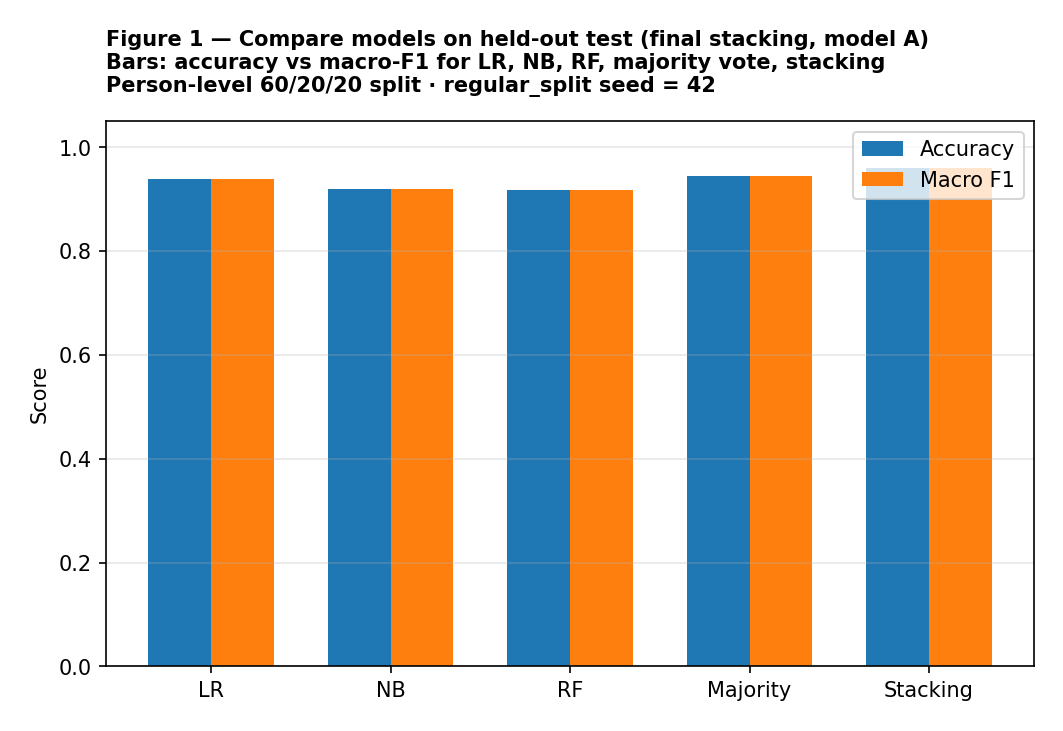
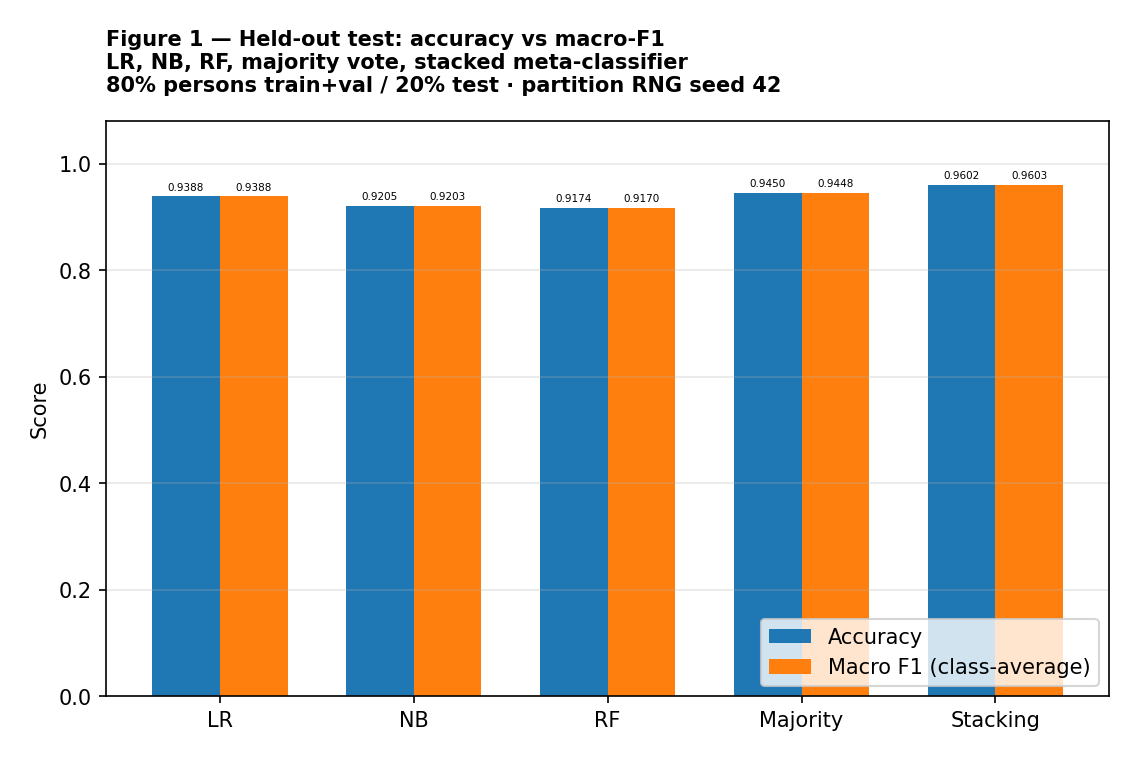
plots: neutral report wording, 80/20 framing, bar value labels, rename fig4 file
- Fig 1: annotate accuracy vs macro-F1 on bars (often nearly equal visually)
- Titles: drop internal A/B/C/final labels; use seed N not regular_split
- Person-level split kept with unique_id gloss; Fig 4 axis/renamed PNG

Made-with: Cursor

diff --git a/report_figures.py b/report_figures.py
@@ -8,26 +8,25 @@ PNG plots and CSV tables are written to ``./plots/`` (created automatically).
 
 Usage (repository root, ``training_data.csv`` present)::
 
-    python report_figures.py              # seed 42 plots + 6-seed stability (model A)
-    python report_figures.py --appendix   # also B/C over 6 seeds (slow)
+    python report_figures.py              # default partition seed 42 + six-seed sweep
+    python report_figures.py --appendix   # extra bar chart over alternative setups (slow)
 
 **Outputs (rubric mapping)**
 
 ``plots/01_model_compare_test.png``
-    Bar chart: test accuracy + macro-F1 for LR, NB, RF, majority vote, stacking (model A).
+    Bar chart: held-out test accuracy and macro-F1 for LR, NB, RF, majority vote, stacking.
 
 ``plots/02_confusion_matrix_stacking.png``
-    Confusion matrix heatmap (stacking, held-out 20% test, default split seed 42).
+    Confusion matrix for stacked classifier on held-out 20% test.
 
 ``plots/03_errors_true_starry_night.png``
-    When true class is *The Starry Night*, bar chart of predicted labels.
+    True class Starry Night: distribution of predicted labels on held-out test.
 
-``plots/04_stability_model_A_split_seeds.png``
-    Test accuracy vs person-level split seed (6 seeds) for model A.
+``plots/04_partition_seed_sensitivity.png``
+    Stacking test accuracy vs RNG seed used to shuffle persons before 80/20 split.
 
 ``plots/05_appendix_model_compare_min_mean_max.csv``
-    Min / mean / max test accuracy. With ``--appendix``, includes models B and C;
-    also writes ``plots/05_appendix_model_compare.png``. Without ``--appendix``, model A only.
+    Min/mean/max table; ``--appendix`` adds extra rows and ``05_appendix_model_compare.png``.
 """
 from __future__ import annotations
 
@@ -76,21 +75,27 @@ def figure_model_compare(r: dict, path: Path, split_seed: int) -> None:
     ]
     x = np.arange(len(names))
     w = 0.35
-    fig, ax = plt.subplots(figsize=(7, 4.8))
-    ax.bar(x - w / 2, accs, width=w, label="Accuracy")
-    ax.bar(x + w / 2, f1s, width=w, label="Macro F1")
+    fig, ax = plt.subplots(figsize=(7.5, 5.0))
+    bars_acc = ax.bar(x - w / 2, accs, width=w, label="Accuracy")
+    bars_f1 = ax.bar(x + w / 2, f1s, width=w, label="Macro F1 (class-average)")
     ax.set_xticks(x)
     ax.set_xticklabels(names)
-    ax.set_ylim(0, 1.05)
+    ax.set_ylim(0, 1.08)
     ax.set_ylabel("Score")
-    ax.legend()
+    ax.legend(loc="lower right")
     ax.grid(axis="y", alpha=0.3)
+    # Macro-F1 can track accuracy closely on balanced 3-class data — show numeric values on bars.
+    try:
+        ax.bar_label(bars_acc, fmt="%.4f", fontsize=5, padding=2)
+        ax.bar_label(bars_f1, fmt="%.4f", fontsize=5, padding=2)
+    except AttributeError:
+        pass
     _title_left(
         ax,
         (
-            "Figure 1 — Compare models on held-out test (final stacking, model A)",
-            "Bars: accuracy vs macro-F1 for LR, NB, RF, majority vote, stacking",
-            f"Person-level 60/20/20 split · regular_split seed = {split_seed}",
+            "Figure 1 — Held-out test: accuracy vs macro-F1",
+            "LR, NB, RF, majority vote, stacked meta-classifier",
+            f"80% persons train+val / 20% test · partition RNG seed {split_seed}",
         ),
     )
     fig.tight_layout()
@@ -159,9 +164,9 @@ def figure_starry_night_errors(r: dict, path: Path, split_seed: int) -> None:
     _title_left(
         ax,
         (
-            "Figure 3 — When truth is “The Starry Night”: what stacking predicts",
-            "Bar height = how often each predicted label (same test fold as Fig. 1–2)",
-            f"regular_split seed = {split_seed}",
+            "Figure 3 — True class: The Starry Night (held-out test)",
+            "How often stacking predicts each class for those rows",
+            f"Same 80/20 partition as Figures 1–2 · seed {split_seed}",
         ),
     )
     fig.tight_layout()
@@ -171,10 +176,10 @@ def figure_starry_night_errors(r: dict, path: Path, split_seed: int) -> None:
 
 def figure_stability_seeds(rows: list[tuple[int, float]], path: Path) -> None:
     seeds, accs = zip(*rows)
-    fig, ax = plt.subplots(figsize=(6.5, 4.5))
+    fig, ax = plt.subplots(figsize=(6.5, 4.8))
     ax.plot(seeds, accs, "o-", linewidth=2, markersize=8)
-    ax.set_xlabel("Person-level split seed (regular_split)")
-    ax.set_ylabel("Stacking test accuracy (model A)")
+    ax.set_xlabel("RNG seed (shuffle persons, then 80/20 train+val vs test)")
+    ax.set_ylabel("Stacking accuracy on 20% held-out test")
     ax.grid(True, alpha=0.3)
     m = min(accs)
     ax.axhline(m, color="gray", linestyle="--", alpha=0.7, label=f"min={m:.4f}")
@@ -184,9 +189,9 @@ def figure_stability_seeds(rows: list[tuple[int, float]], path: Path) -> None:
     _title_left(
         ax,
         (
-            "Figure 4 — Same model, different train/val/test person splits",
-            f"Seeds: {seed_list}",
-            "Dashed = min accuracy · dotted = mean · fixed hyperparameters",
+            "Figure 4 — Sensitivity to train/test partition",
+            f"Seeds tried: {seed_list}",
+            "Same hyperparameters; only the person shuffle before splitting changes",
         ),
     )
     fig.tight_layout()
@@ -208,16 +213,16 @@ def figure_appendix_bar(summary: pd.DataFrame, path: Path) -> None:
     ax.grid(axis="y", alpha=0.3)
     n = len(summary)
     mid = (
-        "Same six person-level seeds per model"
+        "Six partition seeds per configuration (same protocol as Fig. 4)"
         if n > 1
-        else "Model A only — use --appendix to add variants B and C"
+        else "Default run: submitted stacking only (see --appendix for comparisons)"
     )
     _title_left(
         ax,
         (
-            "Figure 5 — Appendix: min / mean / max test accuracy",
+            "Figure 5 — Test accuracy: min, mean, max over partition seeds",
             mid,
-            f"{n} model variant(s)",
+            f"{n} configuration(s)",
         ),
     )
     fig.tight_layout()
@@ -308,14 +313,14 @@ def main() -> None:
     print(f"Wrote {PLOT_DIR / '03_errors_true_starry_night.png'}")
 
     rows_a: list[tuple[int, float]] = []
-    print("Stability sweep model A over seeds", SPLIT_SEEDS_DEFAULT)
+    print("Partition-seed sweep over seeds", SPLIT_SEEDS_DEFAULT)
     for sd in SPLIT_SEEDS_DEFAULT:
         rr = run_stacking_eval(split_seed=sd, verbose=False)
         rows_a.append((sd, rr["acc_stack"]))
         print(f"  seed {sd}: acc_stack={rr['acc_stack']:.4f}")
 
-    figure_stability_seeds(rows_a, PLOT_DIR / "04_stability_model_A_split_seeds.png")
-    print(f"Wrote {PLOT_DIR / '04_stability_model_A_split_seeds.png'}")
+    figure_stability_seeds(rows_a, PLOT_DIR / "04_partition_seed_sensitivity.png")
+    print(f"Wrote {PLOT_DIR / '04_partition_seed_sensitivity.png'}")
 
     summary_rows = [
         {

diff --git a/plots/README.md b/plots/README.md
@@ -7,7 +7,7 @@ Generated by `python report_figures.py` from the repository root. Each PNG has a
 | `01_model_compare_test.png` | Test accuracy and macro-F1 for LR, NB, RF, majority vote, stacking. |
 | `02_confusion_matrix_stacking.png` | Confusion matrix for stacking on held-out test. |
 | `03_errors_true_starry_night.png` | Distribution of predictions when true class is *The Starry Night*. |
-| `04_stability_model_A_split_seeds.png` | Stacking test accuracy vs six person-level split seeds. |
+| `04_partition_seed_sensitivity.png` | Stacking test accuracy vs six RNG seeds for shuffling persons before 80/20 split. |
 | `05_appendix_model_compare_min_mean_max.csv` | Numeric min/mean/max (model A; add B/C with `--appendix`). |
 | `05_appendix_model_compare.png` | (Optional) Bar chart of min/mean/max if you run with `--appendix`. |
 

diff --git a/README.md b/README.md
@@ -72,7 +72,7 @@ Suggested **code.zip** contents: `pred.py`, `export_model.py`, `stacking_ensembl
 Install optional dependency: `pip install -r requirements-figures.txt`
 
 ```bash
-# Default split seed + stability over 6 person-level split seeds (model A)
+# Default partition seed 42 + six-seed sensitivity (same as Fig. 4 protocol)
 python report_figures.py
 
 # Also evaluate appendix B & C over the same seeds (slow)
